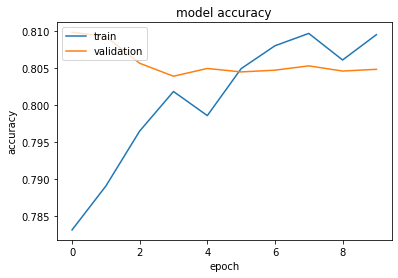
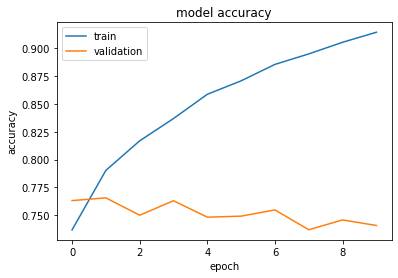
add files

diff --git a/examples/vision/md/image_classification_efficientnet_fine_tuning.md b/examples/vision/md/image_classification_efficientnet_fine_tuning.md
@@ -333,27 +333,21 @@ Note: the accuracy will increase very slowly and may overfit.
 
 ```python
 from tensorflow.keras.applications import EfficientNetB0
-from tensorflow.keras.optimizers import SGD
 
 with strategy.scope():
     inputs = layers.Input(shape=(IMG_SIZE, IMG_SIZE, 3))
     x = img_augmentation(inputs)
-    x = EfficientNetB0(include_top=True, weights=None, classes=NUM_CLASSES)(x)
+    outputs = EfficientNetB0(include_top=True, weights=None, classes=NUM_CLASSES)(x)
 
-    model = tf.keras.Model(inputs, x)
-
-    sgd = SGD(learning_rate=0.2, momentum=0.1, nesterov=True)
-    model.compile(optimizer=sgd, loss="categorical_crossentropy", metrics=["accuracy"])
+    model = tf.keras.Model(inputs, outputs)
+    model.compile(
+        optimizer="adam", loss="categorical_crossentropy", metrics=["accuracy"]
+    )
 
 model.summary()
-reduce_lr = tf.keras.callbacks.ReduceLROnPlateau(
-    monitor="val_loss", factor=0.2, patience=5, min_lr=0.005
-)
 
-epochs = 20  # @param {type: "slider", min:5, max:50}
-hist = model.fit(
-    ds_train, epochs=epochs, validation_data=ds_test, callbacks=[reduce_lr], verbose=2
-)
+epochs = 40  # @param {type: "slider", min:10, max:100}
+hist = model.fit(ds_train, epochs=epochs, validation_data=ds_test, verbose=2)
 
 ```
 
@@ -413,50 +407,90 @@ Total params: 4,203,291
 Trainable params: 4,161,268
 Non-trainable params: 42,023
 _________________________________________________________________
-Epoch 1/20
-WARNING:tensorflow:Callbacks method `on_train_batch_end` is slow compared to the batch time (batch time: 0.0846s vs `on_train_batch_end` time: 0.1706s). Check your callbacks.
+Epoch 1/40
+WARNING:tensorflow:Callbacks method `on_train_batch_end` is slow compared to the batch time (batch time: 0.0947s vs `on_train_batch_end` time: 0.1790s). Check your callbacks.
 
-WARNING:tensorflow:Callbacks method `on_train_batch_end` is slow compared to the batch time (batch time: 0.0846s vs `on_train_batch_end` time: 0.1706s). Check your callbacks.
+WARNING:tensorflow:Callbacks method `on_train_batch_end` is slow compared to the batch time (batch time: 0.0947s vs `on_train_batch_end` time: 0.1790s). Check your callbacks.
 
-187/187 - 66s - loss: 4.9980 - accuracy: 0.0100 - val_loss: 4.8065 - val_accuracy: 0.0139
-Epoch 2/20
-187/187 - 63s - loss: 4.6442 - accuracy: 0.0221 - val_loss: 4.5969 - val_accuracy: 0.0168
-Epoch 3/20
-187/187 - 63s - loss: 4.5119 - accuracy: 0.0267 - val_loss: 4.7934 - val_accuracy: 0.0208
-Epoch 4/20
-187/187 - 63s - loss: 4.4043 - accuracy: 0.0357 - val_loss: 5.0532 - val_accuracy: 0.0132
-Epoch 5/20
-187/187 - 63s - loss: 4.2961 - accuracy: 0.0445 - val_loss: 4.2348 - val_accuracy: 0.0500
-Epoch 6/20
-187/187 - 63s - loss: 4.1896 - accuracy: 0.0563 - val_loss: 4.1920 - val_accuracy: 0.0585
-Epoch 7/20
-187/187 - 63s - loss: 4.1092 - accuracy: 0.0639 - val_loss: 4.1783 - val_accuracy: 0.0601
-Epoch 8/20
-187/187 - 63s - loss: 4.0228 - accuracy: 0.0730 - val_loss: 4.2203 - val_accuracy: 0.0612
-Epoch 9/20
-187/187 - 63s - loss: 3.9411 - accuracy: 0.0873 - val_loss: 4.0484 - val_accuracy: 0.0770
-Epoch 10/20
-187/187 - 63s - loss: 3.8646 - accuracy: 0.0971 - val_loss: 3.9113 - val_accuracy: 0.0865
-Epoch 11/20
-187/187 - 63s - loss: 3.7850 - accuracy: 0.1038 - val_loss: 3.9488 - val_accuracy: 0.0891
-Epoch 12/20
-187/187 - 63s - loss: 3.7124 - accuracy: 0.1186 - val_loss: 3.8743 - val_accuracy: 0.1049
-Epoch 13/20
-187/187 - 63s - loss: 3.6694 - accuracy: 0.1228 - val_loss: 4.1978 - val_accuracy: 0.0777
-Epoch 14/20
-187/187 - 63s - loss: 3.5858 - accuracy: 0.1359 - val_loss: 3.9157 - val_accuracy: 0.1013
-Epoch 15/20
-187/187 - 63s - loss: 3.5006 - accuracy: 0.1466 - val_loss: 3.8554 - val_accuracy: 0.1157
-Epoch 16/20
-187/187 - 63s - loss: 3.4252 - accuracy: 0.1628 - val_loss: 3.7769 - val_accuracy: 0.1302
-Epoch 17/20
-187/187 - 63s - loss: 3.3525 - accuracy: 0.1740 - val_loss: 4.1482 - val_accuracy: 0.1168
-Epoch 18/20
-187/187 - 62s - loss: 3.2918 - accuracy: 0.1892 - val_loss: 3.7054 - val_accuracy: 0.1411
-Epoch 19/20
-187/187 - 63s - loss: 3.2250 - accuracy: 0.1941 - val_loss: 3.5320 - val_accuracy: 0.1620
-Epoch 20/20
-187/187 - 63s - loss: 3.1402 - accuracy: 0.2121 - val_loss: 3.6828 - val_accuracy: 0.1472
+187/187 - 66s - loss: 4.9429 - accuracy: 0.0133 - val_loss: 5.2106 - val_accuracy: 0.0059
+Epoch 2/40
+187/187 - 64s - loss: 4.6114 - accuracy: 0.0236 - val_loss: 5.3730 - val_accuracy: 0.0162
+Epoch 3/40
+187/187 - 63s - loss: 4.4569 - accuracy: 0.0336 - val_loss: 4.4777 - val_accuracy: 0.0318
+Epoch 4/40
+187/187 - 63s - loss: 4.3158 - accuracy: 0.0436 - val_loss: 4.2851 - val_accuracy: 0.0420
+Epoch 5/40
+187/187 - 63s - loss: 4.2200 - accuracy: 0.0506 - val_loss: 4.3940 - val_accuracy: 0.0420
+Epoch 6/40
+187/187 - 62s - loss: 4.1251 - accuracy: 0.0590 - val_loss: 4.3120 - val_accuracy: 0.0409
+Epoch 7/40
+187/187 - 64s - loss: 4.0193 - accuracy: 0.0721 - val_loss: 4.1186 - val_accuracy: 0.0642
+Epoch 8/40
+187/187 - 63s - loss: 3.9211 - accuracy: 0.0880 - val_loss: 4.1713 - val_accuracy: 0.0617
+Epoch 9/40
+187/187 - 64s - loss: 3.8596 - accuracy: 0.0929 - val_loss: 3.9628 - val_accuracy: 0.0796
+Epoch 10/40
+187/187 - 64s - loss: 3.7631 - accuracy: 0.1090 - val_loss: 3.9563 - val_accuracy: 0.0926
+Epoch 11/40
+187/187 - 64s - loss: 3.6673 - accuracy: 0.1232 - val_loss: 4.1761 - val_accuracy: 0.0722
+Epoch 12/40
+187/187 - 64s - loss: 3.5783 - accuracy: 0.1353 - val_loss: 3.9438 - val_accuracy: 0.0942
+Epoch 13/40
+187/187 - 64s - loss: 3.5005 - accuracy: 0.1476 - val_loss: 3.9076 - val_accuracy: 0.1090
+Epoch 14/40
+187/187 - 64s - loss: 3.4029 - accuracy: 0.1645 - val_loss: 4.2099 - val_accuracy: 0.0870
+Epoch 15/40
+187/187 - 64s - loss: 3.2997 - accuracy: 0.1786 - val_loss: 3.6182 - val_accuracy: 0.1424
+Epoch 16/40
+187/187 - 69s - loss: 3.2280 - accuracy: 0.1899 - val_loss: 3.7401 - val_accuracy: 0.1353
+Epoch 17/40
+187/187 - 65s - loss: 3.1240 - accuracy: 0.2126 - val_loss: 4.0326 - val_accuracy: 0.1095
+Epoch 18/40
+187/187 - 63s - loss: 3.0372 - accuracy: 0.2246 - val_loss: 3.5171 - val_accuracy: 0.1698
+Epoch 19/40
+187/187 - 63s - loss: 2.9607 - accuracy: 0.2389 - val_loss: 3.5527 - val_accuracy: 0.1706
+Epoch 20/40
+187/187 - 64s - loss: 2.8683 - accuracy: 0.2597 - val_loss: 3.5016 - val_accuracy: 0.1733
+Epoch 21/40
+187/187 - 64s - loss: 2.7838 - accuracy: 0.2764 - val_loss: 3.3646 - val_accuracy: 0.1958
+Epoch 22/40
+187/187 - 64s - loss: 2.6932 - accuracy: 0.2924 - val_loss: 3.3625 - val_accuracy: 0.1987
+Epoch 23/40
+187/187 - 63s - loss: 2.6073 - accuracy: 0.3161 - val_loss: 3.6400 - val_accuracy: 0.1690
+Epoch 24/40
+187/187 - 63s - loss: 2.5183 - accuracy: 0.3284 - val_loss: 3.4461 - val_accuracy: 0.1969
+Epoch 25/40
+187/187 - 64s - loss: 2.4168 - accuracy: 0.3493 - val_loss: 3.5591 - val_accuracy: 0.1778
+Epoch 26/40
+187/187 - 63s - loss: 2.3308 - accuracy: 0.3650 - val_loss: 3.3599 - val_accuracy: 0.2162
+Epoch 27/40
+187/187 - 64s - loss: 2.2457 - accuracy: 0.3917 - val_loss: 3.5468 - val_accuracy: 0.2009
+Epoch 28/40
+187/187 - 64s - loss: 2.1452 - accuracy: 0.4148 - val_loss: 3.4418 - val_accuracy: 0.2231
+Epoch 29/40
+187/187 - 64s - loss: 2.0703 - accuracy: 0.4287 - val_loss: 3.4543 - val_accuracy: 0.2306
+Epoch 30/40
+187/187 - 64s - loss: 1.9466 - accuracy: 0.4517 - val_loss: 3.4762 - val_accuracy: 0.2326
+Epoch 31/40
+187/187 - 64s - loss: 1.8885 - accuracy: 0.4746 - val_loss: 3.8991 - val_accuracy: 0.2009
+Epoch 32/40
+187/187 - 63s - loss: 1.7984 - accuracy: 0.4939 - val_loss: 3.7480 - val_accuracy: 0.2192
+Epoch 33/40
+187/187 - 64s - loss: 1.6957 - accuracy: 0.5161 - val_loss: 3.7242 - val_accuracy: 0.2394
+Epoch 34/40
+187/187 - 63s - loss: 1.6105 - accuracy: 0.5379 - val_loss: 4.3845 - val_accuracy: 0.1919
+Epoch 35/40
+187/187 - 64s - loss: 1.5278 - accuracy: 0.5567 - val_loss: 4.1898 - val_accuracy: 0.2008
+Epoch 36/40
+187/187 - 64s - loss: 1.4331 - accuracy: 0.5806 - val_loss: 4.2426 - val_accuracy: 0.2108
+Epoch 37/40
+187/187 - 63s - loss: 1.3563 - accuracy: 0.6032 - val_loss: 4.2700 - val_accuracy: 0.2027
+Epoch 38/40
+187/187 - 64s - loss: 1.2668 - accuracy: 0.6248 - val_loss: 4.0390 - val_accuracy: 0.2312
+Epoch 39/40
+187/187 - 64s - loss: 1.1917 - accuracy: 0.6506 - val_loss: 4.3676 - val_accuracy: 0.2130
+Epoch 40/40
+187/187 - 63s - loss: 1.1322 - accuracy: 0.6575 - val_loss: 4.2741 - val_accuracy: 0.2310
 
 ```
 </div>
@@ -464,12 +498,12 @@ Training the model is relatively fast (takes only 20 seconds per epoch on TPUv2 
 available on Colab). This might make it sounds easy to simply train EfficientNet on any
 dataset wanted from scratch. However, training EfficientNet on smaller datasets,
 especially those with lower resolution like CIFAR-100, faces the significant challenge of
-overfitting or getting trapped in local extrema.
+overfitting.
 
-Hence traning from scratch requires very careful choice of hyperparameters and is
+Hence training from scratch requires very careful choice of hyperparameters and is
 difficult to find suitable regularization. It would also be much more demanding in resources.
 Plotting the training and validation accuracy
-makes it clear that validation accuracy stagnates at very low value.
+makes it clear that validation accuracy stagnates at a low value.
 
 
 ```python
@@ -518,23 +552,23 @@ def build_model(num_classes):
 
     top_dropout_rate = 0.2
     x = layers.Dropout(top_dropout_rate, name="top_dropout")(x)
-    x = layers.Dense(NUM_CLASSES, activation="softmax", name="pred")(x)
+    outputs = layers.Dense(NUM_CLASSES, activation="softmax", name="pred")(x)
 
     # Compile
-    model = tf.keras.Model(inputs, x, name="EfficientNet")
-    sgd = SGD(learning_rate=0.2, momentum=0.1, nesterov=True)
-    model.compile(optimizer=sgd, loss="categorical_crossentropy", metrics=["accuracy"])
+    model = tf.keras.Model(inputs, outputs, name="EfficientNet")
+    optimizer = tf.keras.optimizers.Adam(learning_rate=1e-2)
+    model.compile(
+        optimizer=optimizer, loss="categorical_crossentropy", metrics=["accuracy"]
+    )
     return model
 
 ```
 
 The first step to transfer learning is to freeze all layers and train only the top
-layers. For this step, a relatively large learning rate (~0.1) can be used to start with,
-while applying some learning rate decay (either `ExponentialDecay` or use the `ReduceLROnPlateau`
-callback).  For this stage, using
-`EfficientNetB0`, validation accuracy and loss will usually be better than training
+layers. For this step, a relatively large learning rate (1e-2) can be used.
+Note that validation accuracy and loss will usually be better than training
 accuracy and loss. This is because the regularization is strong, which only
-suppresses train time metrics.
+suppresses training-time metrics.
 
 Note that the convergence may take up to 50 epochs depending on choice of learning rate.
 If image augmentation layers were not
@@ -542,74 +576,66 @@ applied, the validation accuracy may only reach ~60%.
 
 
 ```python
-from tensorflow.keras.callbacks import ReduceLROnPlateau
-
 with strategy.scope():
     model = build_model(num_classes=NUM_CLASSES)
 
-reduce_lr = ReduceLROnPlateau(monitor="val_loss", factor=0.2, patience=5, min_lr=0.0001)
-
 epochs = 25  # @param {type: "slider", min:8, max:80}
-hist = model.fit(
-    ds_train, epochs=epochs, validation_data=ds_test, callbacks=[reduce_lr], verbose=2
-)
+hist = model.fit(ds_train, epochs=epochs, validation_data=ds_test, verbose=2)
 plot_hist(hist)
 ```
 
 <div class="k-default-codeblock">
 ```
-Downloading data from https://storage.googleapis.com/keras-applications/efficientnetb0_notop.h5
-16711680/16705208 [==============================] - 0s 0us/step
 Epoch 1/25
-187/187 - 35s - loss: 2.6811 - accuracy: 0.3722 - val_loss: 0.9412 - val_accuracy: 0.7228
+187/187 - 34s - loss: 3.5312 - accuracy: 0.3681 - val_loss: 0.9583 - val_accuracy: 0.7200
 Epoch 2/25
-187/187 - 32s - loss: 1.9275 - accuracy: 0.5181 - val_loss: 0.7923 - val_accuracy: 0.7589
+187/187 - 32s - loss: 1.8542 - accuracy: 0.5243 - val_loss: 0.7978 - val_accuracy: 0.7576
 Epoch 3/25
-187/187 - 33s - loss: 1.6592 - accuracy: 0.5678 - val_loss: 0.8338 - val_accuracy: 0.7657
+187/187 - 32s - loss: 1.5332 - accuracy: 0.5735 - val_loss: 0.7768 - val_accuracy: 0.7655
 Epoch 4/25
-187/187 - 32s - loss: 1.5191 - accuracy: 0.5998 - val_loss: 0.8086 - val_accuracy: 0.7703
+187/187 - 32s - loss: 1.4653 - accuracy: 0.5869 - val_loss: 0.7922 - val_accuracy: 0.7618
 Epoch 5/25
-187/187 - 33s - loss: 1.4391 - accuracy: 0.6161 - val_loss: 0.8176 - val_accuracy: 0.7664
+187/187 - 32s - loss: 1.3851 - accuracy: 0.6094 - val_loss: 0.7849 - val_accuracy: 0.7698
 Epoch 6/25
-187/187 - 32s - loss: 1.3538 - accuracy: 0.6315 - val_loss: 0.8607 - val_accuracy: 0.7629
+187/187 - 32s - loss: 1.3779 - accuracy: 0.6125 - val_loss: 0.7551 - val_accuracy: 0.7743
 Epoch 7/25
-187/187 - 33s - loss: 1.2788 - accuracy: 0.6474 - val_loss: 0.7846 - val_accuracy: 0.7734
+187/187 - 32s - loss: 1.3498 - accuracy: 0.6142 - val_loss: 0.7820 - val_accuracy: 0.7639
 Epoch 8/25
-187/187 - 32s - loss: 1.2502 - accuracy: 0.6557 - val_loss: 0.8364 - val_accuracy: 0.7654
+187/187 - 32s - loss: 1.3550 - accuracy: 0.6168 - val_loss: 0.8196 - val_accuracy: 0.7586
 Epoch 9/25
-187/187 - 32s - loss: 1.1967 - accuracy: 0.6600 - val_loss: 0.7759 - val_accuracy: 0.7754
+187/187 - 32s - loss: 1.3335 - accuracy: 0.6223 - val_loss: 0.8514 - val_accuracy: 0.7576
 Epoch 10/25
-187/187 - 32s - loss: 1.1372 - accuracy: 0.6737 - val_loss: 0.7883 - val_accuracy: 0.7769
+187/187 - 32s - loss: 1.2962 - accuracy: 0.6315 - val_loss: 0.8611 - val_accuracy: 0.7575
 Epoch 11/25
-187/187 - 32s - loss: 1.1171 - accuracy: 0.6799 - val_loss: 0.7726 - val_accuracy: 0.7829
+187/187 - 32s - loss: 1.2961 - accuracy: 0.6303 - val_loss: 0.8240 - val_accuracy: 0.7656
 Epoch 12/25
-187/187 - 33s - loss: 1.0858 - accuracy: 0.6831 - val_loss: 0.7729 - val_accuracy: 0.7786
+187/187 - 32s - loss: 1.2982 - accuracy: 0.6308 - val_loss: 0.8727 - val_accuracy: 0.7564
 Epoch 13/25
-187/187 - 32s - loss: 1.0487 - accuracy: 0.6967 - val_loss: 0.7879 - val_accuracy: 0.7773
+187/187 - 32s - loss: 1.2829 - accuracy: 0.6410 - val_loss: 0.8177 - val_accuracy: 0.7663
 Epoch 14/25
-187/187 - 33s - loss: 1.0505 - accuracy: 0.6929 - val_loss: 0.7602 - val_accuracy: 0.7815
+187/187 - 32s - loss: 1.2776 - accuracy: 0.6385 - val_loss: 0.8002 - val_accuracy: 0.7717
 Epoch 15/25
-187/187 - 33s - loss: 0.9991 - accuracy: 0.7041 - val_loss: 0.7349 - val_accuracy: 0.7916
+187/187 - 32s - loss: 1.2914 - accuracy: 0.6380 - val_loss: 0.8370 - val_accuracy: 0.7613
 Epoch 16/25
-187/187 - 33s - loss: 0.9754 - accuracy: 0.7121 - val_loss: 0.7645 - val_accuracy: 0.7832
+187/187 - 32s - loss: 1.2883 - accuracy: 0.6388 - val_loss: 0.8462 - val_accuracy: 0.7611
 Epoch 17/25
-187/187 - 32s - loss: 0.9599 - accuracy: 0.7124 - val_loss: 0.7822 - val_accuracy: 0.7790
+187/187 - 32s - loss: 1.2700 - accuracy: 0.6393 - val_loss: 0.8654 - val_accuracy: 0.7557
 Epoch 18/25
-187/187 - 32s - loss: 0.9514 - accuracy: 0.7156 - val_loss: 0.7648 - val_accuracy: 0.7865
+187/187 - 32s - loss: 1.2513 - accuracy: 0.6484 - val_loss: 0.8444 - val_accuracy: 0.7659
 Epoch 19/25
-187/187 - 32s - loss: 0.9352 - accuracy: 0.7216 - val_loss: 0.7475 - val_accuracy: 0.7909
+187/187 - 32s - loss: 1.3034 - accuracy: 0.6348 - val_loss: 0.8649 - val_accuracy: 0.7583
 Epoch 20/25
-187/187 - 32s - loss: 0.9208 - accuracy: 0.7231 - val_loss: 0.7444 - val_accuracy: 0.7910
+187/187 - 32s - loss: 1.2572 - accuracy: 0.6461 - val_loss: 0.8921 - val_accuracy: 0.7543
 Epoch 21/25
-187/187 - 32s - loss: 0.8298 - accuracy: 0.7473 - val_loss: 0.6925 - val_accuracy: 0.8035
+187/187 - 32s - loss: 1.2986 - accuracy: 0.6426 - val_loss: 0.8980 - val_accuracy: 0.7545
 Epoch 22/25
-187/187 - 32s - loss: 0.7953 - accuracy: 0.7569 - val_loss: 0.6766 - val_accuracy: 0.8063
+187/187 - 32s - loss: 1.2734 - accuracy: 0.6431 - val_loss: 0.8824 - val_accuracy: 0.7603
 Epoch 23/25
-187/187 - 32s - loss: 0.7796 - accuracy: 0.7609 - val_loss: 0.6737 - val_accuracy: 0.8068
+187/187 - 32s - loss: 1.2580 - accuracy: 0.6531 - val_loss: 0.9005 - val_accuracy: 0.7591
 Epoch 24/25
-187/187 - 32s - loss: 0.7551 - accuracy: 0.7674 - val_loss: 0.6761 - val_accuracy: 0.8033
+187/187 - 31s - loss: 1.2607 - accuracy: 0.6458 - val_loss: 0.8893 - val_accuracy: 0.7563
 Epoch 25/25
-187/187 - 32s - loss: 0.7690 - accuracy: 0.7685 - val_loss: 0.6731 - val_accuracy: 0.8088
+187/187 - 31s - loss: 1.2653 - accuracy: 0.6462 - val_loss: 0.8996 - val_accuracy: 0.7579
 
 ```
 </div>
@@ -648,48 +674,45 @@ def unfreeze_model(model):
         if isinstance(l, layers.BatchNormalization):
             l.trainable = False
 
-    sgd = SGD(learning_rate=0.0002)
-    model.compile(optimizer=sgd, loss="categorical_crossentropy", metrics=["accuracy"])
+    optimizer = tf.keras.optimizers.Adam(learning_rate=1e-4)
+    model.compile(
+        optimizer=optimizer, loss="categorical_crossentropy", metrics=["accuracy"]
+    )
 
 
 unfreeze_model(model)
 
-reduce_lr = ReduceLROnPlateau(
-    monitor="val_loss", factor=0.2, patience=5, min_lr=0.00001
-)
 epochs = 10  # @param {type: "slider", min:8, max:50}
-hist = model.fit(
-    ds_train, epochs=epochs, validation_data=ds_test, callbacks=[reduce_lr], verbose=2
-)
+hist = model.fit(ds_train, epochs=epochs, validation_data=ds_test, verbose=2)
 plot_hist(hist)
 ```
 
 <div class="k-default-codeblock">
 ```
 Epoch 1/10
-WARNING:tensorflow:Callbacks method `on_train_batch_end` is slow compared to the batch time (batch time: 0.0863s vs `on_train_batch_end` time: 0.1814s). Check your callbacks.
+WARNING:tensorflow:Callbacks method `on_train_batch_end` is slow compared to the batch time (batch time: 0.0870s vs `on_train_batch_end` time: 0.1970s). Check your callbacks.
 
-WARNING:tensorflow:Callbacks method `on_train_batch_end` is slow compared to the batch time (batch time: 0.0863s vs `on_train_batch_end` time: 0.1814s). Check your callbacks.
+WARNING:tensorflow:Callbacks method `on_train_batch_end` is slow compared to the batch time (batch time: 0.0870s vs `on_train_batch_end` time: 0.1970s). Check your callbacks.
 
-187/187 - 66s - loss: 0.7042 - accuracy: 0.7831 - val_loss: 0.6712 - val_accuracy: 0.8098
+187/187 - 68s - loss: 0.8779 - accuracy: 0.7368 - val_loss: 0.8819 - val_accuracy: 0.7632
 Epoch 2/10
-187/187 - 65s - loss: 0.6822 - accuracy: 0.7890 - val_loss: 0.6750 - val_accuracy: 0.8092
+187/187 - 65s - loss: 0.6701 - accuracy: 0.7904 - val_loss: 0.8961 - val_accuracy: 0.7656
 Epoch 3/10
-187/187 - 65s - loss: 0.6570 - accuracy: 0.7965 - val_loss: 0.6805 - val_accuracy: 0.8056
+187/187 - 65s - loss: 0.5687 - accuracy: 0.8169 - val_loss: 1.0059 - val_accuracy: 0.7500
 Epoch 4/10
-187/187 - 64s - loss: 0.6394 - accuracy: 0.8018 - val_loss: 0.6904 - val_accuracy: 0.8039
+187/187 - 65s - loss: 0.5003 - accuracy: 0.8370 - val_loss: 0.9159 - val_accuracy: 0.7631
 Epoch 5/10
-187/187 - 66s - loss: 0.6317 - accuracy: 0.7985 - val_loss: 0.6903 - val_accuracy: 0.8049
+187/187 - 65s - loss: 0.4289 - accuracy: 0.8588 - val_loss: 1.0163 - val_accuracy: 0.7483
 Epoch 6/10
-187/187 - 66s - loss: 0.6137 - accuracy: 0.8049 - val_loss: 0.6949 - val_accuracy: 0.8045
+187/187 - 66s - loss: 0.3918 - accuracy: 0.8709 - val_loss: 1.0123 - val_accuracy: 0.7492
 Epoch 7/10
-187/187 - 65s - loss: 0.6225 - accuracy: 0.8080 - val_loss: 0.6916 - val_accuracy: 0.8047
+187/187 - 65s - loss: 0.3449 - accuracy: 0.8857 - val_loss: 0.9954 - val_accuracy: 0.7548
 Epoch 8/10
-187/187 - 66s - loss: 0.6162 - accuracy: 0.8097 - val_loss: 0.6922 - val_accuracy: 0.8053
+187/187 - 65s - loss: 0.3163 - accuracy: 0.8951 - val_loss: 1.0964 - val_accuracy: 0.7369
 Epoch 9/10
-187/187 - 66s - loss: 0.6176 - accuracy: 0.8061 - val_loss: 0.6908 - val_accuracy: 0.8046
+187/187 - 66s - loss: 0.2803 - accuracy: 0.9056 - val_loss: 1.0566 - val_accuracy: 0.7458
 Epoch 10/10
-187/187 - 66s - loss: 0.5967 - accuracy: 0.8095 - val_loss: 0.6913 - val_accuracy: 0.8048
+187/187 - 66s - loss: 0.2560 - accuracy: 0.9146 - val_loss: 1.0665 - val_accuracy: 0.7408
 
 ```
 </div>
